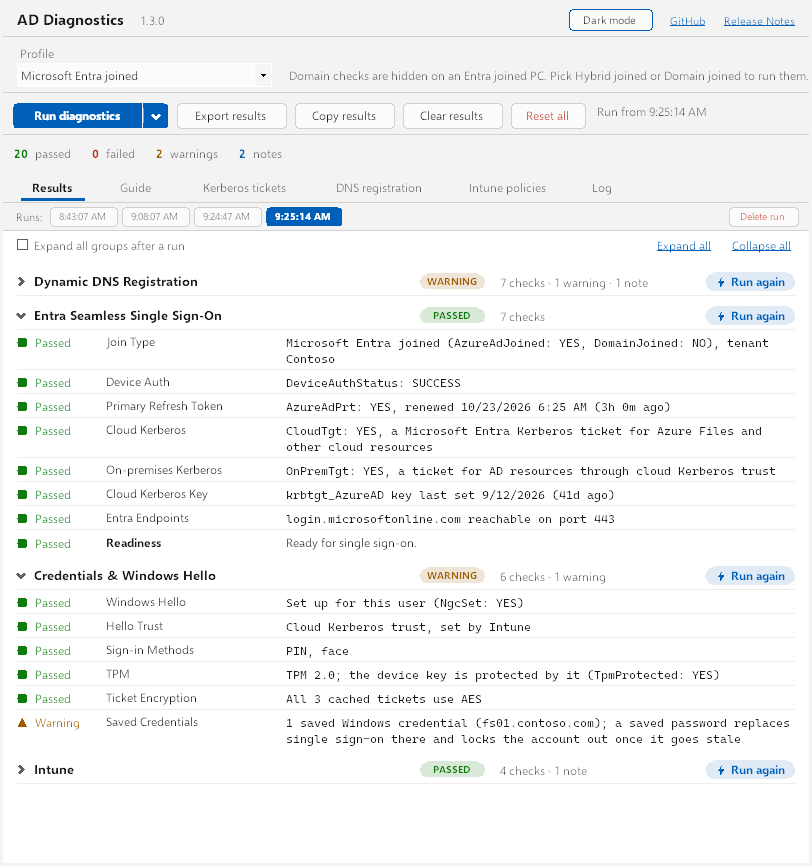
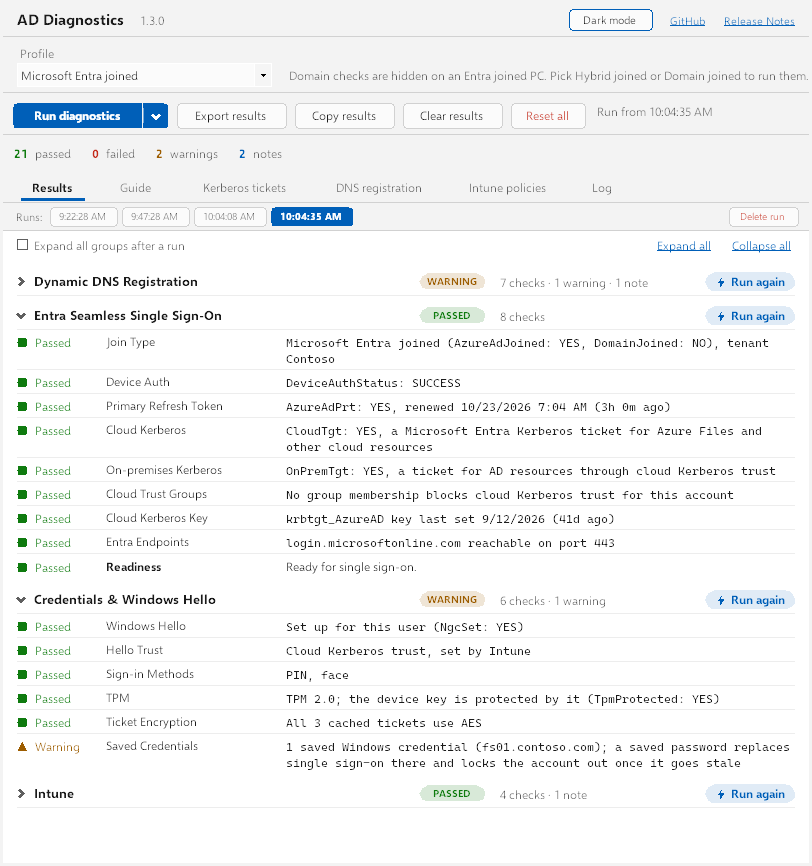
feat: warn when a group membership blocks cloud Kerberos trust
On an Entra joined PC, Cloud Trust Groups compares the signed-in user's
AD groups with the Microsoft Entra Kerberos server object's password
replication policy, and warns when a denied group (such as Domain
Admins) or a missing allowed one keeps cloud Kerberos trust from giving
the account on-premises tickets.

Claude-Session: https://claude.ai/code/session_01Lj9Grseq7MZ74vP4i1sdk2

diff --git a/CloudTrust.cs b/CloudTrust.cs
@@ -1,0 +1,127 @@
+using System;
+using System.Collections.Generic;
+using System.Linq;
+using System.Text.RegularExpressions;
+
+#nullable enable
+namespace AdDiag;
+
+// Cloud Kerberos trust on an Entra joined PC: Microsoft Entra ID issues a partial ticket as the Microsoft Entra Kerberos
+// server object (AzureADKerberos, which AD treats like a read-only DC), and a domain controller trades it for a full
+// one only for accounts that object's password replication policy allows. Members of a denied group (by default
+// Domain Admins, Enterprise Admins, Schema Admins, Administrators and the other privileged groups) get no
+// on-premises ticket. This reads that policy and the signed-in user's groups from AD and compares them.
+static partial class Diagnostics
+{
+    public const string CloudTrustGroupsCheck = "Cloud Trust Groups";
+
+    static readonly Regex UpnPattern = new(@"^[A-Za-z0-9._%+\-]+@[A-Za-z0-9]([A-Za-z0-9\-]*[A-Za-z0-9])?(\.[A-Za-z0-9]([A-Za-z0-9\-]*[A-Za-z0-9])?)*$");
+
+    /// <summary>
+    /// The script that reads the user's groups (tokenGroups, which a user may read on their own account) and the
+    /// AzureADKerberos object's allowed and denied groups. Only the domain and the UPN are put in it, and only once
+    /// they match strict patterns (no quotes, no LDAP filter characters). Output: "USER|&lt;sid&gt;", one "GROUP|&lt;sid&gt;"
+    /// per group, then "DENY|&lt;sid&gt;|&lt;name&gt;" and "ALLOW|&lt;sid&gt;|&lt;name&gt;" per policy group; or "NOUSER",
+    /// "NOSERVER" or "ERROR|&lt;message&gt;".
+    /// </summary>
+    internal static string CloudTrustScript(string domain, string upn)
+    {
+        if (!DomainName.IsMatch(domain)) throw new ArgumentException($"Not a domain name: {domain}");
+        if (!UpnPattern.IsMatch(upn)) throw new ArgumentException($"Not a user principal name: {upn}");
+        return $$"""
+            $ErrorActionPreference = 'Stop'
+            $ProgressPreference = 'SilentlyContinue'
+            function Sid($bytes) { (New-Object System.Security.Principal.SecurityIdentifier([byte[]]$bytes, 0)).Value }
+            function Find($filter, $props) {
+                $s = New-Object System.DirectoryServices.DirectorySearcher([adsi]'LDAP://{{domain}}', $filter, $props)
+                $s.ClientTimeout = [TimeSpan]::FromSeconds(10)
+                $s.FindOne()
+            }
+            try {
+                $u = Find '(&(objectCategory=person)(userPrincipalName={{upn}}))' @('distinguishedName')
+                if (-not $u) { 'NOUSER'; return }
+                $user = $u.GetDirectoryEntry()
+                $user.RefreshCache(@('tokenGroups', 'objectSid'))
+                'USER|' + (Sid $user.Properties['objectSid'][0])
+                foreach ($g in $user.Properties['tokenGroups']) { 'GROUP|' + (Sid $g) }
+                $k = Find '(&(objectClass=computer)(sAMAccountName=AzureADKerberos$))' @('msDS-NeverRevealGroup', 'msDS-RevealOnDemandGroup')
+                if (-not $k) { 'NOSERVER'; return }
+                foreach ($pair in @(@('DENY', 'msds-neverrevealgroup'), @('ALLOW', 'msds-revealondemandgroup'))) {
+                    foreach ($dn in $k.Properties[$pair[1]]) {
+                        $e = [adsi]("LDAP://{{domain}}/" + $dn)
+                        $pair[0] + '|' + (Sid $e.Properties['objectSid'][0]) + '|' + $e.Properties['name'][0]
+                    }
+                }
+            } catch {
+                $e = $_.Exception
+                if ($e.InnerException) { $e = $e.InnerException }
+                'ERROR|' + ($e.Message -replace '\s+', ' ')
+            }
+            """;
+    }
+
+    /// <summary>What the script found, or why it couldn't (Problem: NOUSER, NOSERVER or an error message).</summary>
+    internal record CloudTrustPolicy(HashSet<string> UserSids, List<(string Sid, string Name)> Denied,
+        List<(string Sid, string Name)> Allowed, string? Problem);
+
+    internal static CloudTrustPolicy ParseCloudTrust(string output)
+    {
+        var sids = new HashSet<string>(StringComparer.OrdinalIgnoreCase);
+        List<(string, string)> denied = [], allowed = [];
+        foreach (var parts in output.Split('\n').Select(l => l.Trim().Split('|')).Where(p => p[0].Length > 0))
+        {
+            switch (parts[0])
+            {
+                case "NOUSER" or "NOSERVER": return new(sids, denied, allowed, parts[0]);
+                case "ERROR": return new(sids, denied, allowed, string.Join("|", parts[1..]).Trim());
+                case "USER" or "GROUP" when parts.Length == 2: sids.Add(parts[1]); break;
+                case "DENY" when parts.Length >= 3: denied.Add((parts[1], string.Join("|", parts[2..]))); break;
+                case "ALLOW" when parts.Length >= 3: allowed.Add((parts[1], string.Join("|", parts[2..]))); break;
+            }
+        }
+        return new(sids, denied, allowed, sids.Count == 0 ? "No output from PowerShell" : null);
+    }
+
+    static TestEntry CloudTrustGroupsEntry(DiagConfig cfg, IProbe probe)
+    {
+        string? upn = null;
+        try { upn = probe.CurrentUserUpn(); }
+        catch (Exception ex) when (ex is not OperationCanceledException) { } // unknown: reported below
+        if (!DomainName.IsMatch(cfg.Domain))
+            return new(CloudTrustGroupsCheck, Status.Skip, "Not checked: this user has no on-premises domain to ask (no Kerberos realm)");
+        if (upn == null || !UpnPattern.IsMatch(upn))
+            return new(CloudTrustGroupsCheck, Status.Skip, "Not checked: the signed-in user's UPN isn't known");
+
+        CloudTrustPolicy policy;
+        try { policy = ParseCloudTrust(probe.RunPowerShell(CloudTrustScript(cfg.Domain, upn), 25000, cfg.Cancel)); }
+        catch (Exception ex) when (ex is not OperationCanceledException)
+        {
+            return new(CloudTrustGroupsCheck, Status.Skip, $"Not checked: could not query AD: {ex.Message}");
+        }
+        return CloudTrustGroupsVerdict(policy, upn, cfg.Domain);
+    }
+
+    internal static TestEntry CloudTrustGroupsVerdict(CloudTrustPolicy policy, string upn, string domain)
+    {
+        switch (policy.Problem)
+        {
+            case "NOUSER":
+                return new(CloudTrustGroupsCheck, Status.Skip, $"Not checked: no account with UPN {upn} in {domain}");
+            case "NOSERVER":
+                return new(CloudTrustGroupsCheck, Status.Info, $"No Microsoft Entra Kerberos server object in {domain}; cloud Kerberos trust isn't set up there");
+            case { } error:
+                return new(CloudTrustGroupsCheck, Status.Skip, $"Not checked: could not query AD: {error}");
+        }
+
+        var blocking = policy.Denied.Where(d => policy.UserSids.Contains(d.Sid)).Select(d => d.Name).Distinct().ToList();
+        if (blocking.Count > 0)
+            return new(CloudTrustGroupsCheck, Status.Warn,
+                $"Member of {string.Join(", ", blocking)}, which the Microsoft Entra Kerberos server object's password replication policy denies; "
+                + "cloud Kerberos trust gives this account no on-premises tickets, so use a separate non-privileged account");
+        if (policy.Allowed.Count > 0 && !policy.Allowed.Any(a => policy.UserSids.Contains(a.Sid)))
+            return new(CloudTrustGroupsCheck, Status.Warn,
+                $"Not in any group the Microsoft Entra Kerberos server object allows ({string.Join(", ", policy.Allowed.Select(a => a.Name).Take(3))}); "
+                + "cloud Kerberos trust gives this account no on-premises tickets");
+        return new(CloudTrustGroupsCheck, Status.Pass, "No group membership blocks cloud Kerberos trust for this account");
+    }
+}

diff --git a/MainForm.cs b/MainForm.cs
@@ -1198,6 +1198,8 @@ class MainForm : Form
                 "  Fix: Needs Windows 10 21H2 or later with current updates. Sign out and in\n\n" +
                 "• On-premises Kerberos — Entra joined PCs: OnPremTgt YES, a ticket for AD issued through cloud Kerberos trust. Without it, file shares and printers ask for a password\n" +
                 "  Fix: The user must be synchronized from AD: in the Microsoft Entra admin center, Users > the user > On-premises sync enabled must be Yes. Once per domain, a Domain Admin who is also a Hybrid Identity Administrator creates the Microsoft Entra Kerberos server object: 'Install-Module AzureADHybridAuthenticationManagement', then 'Set-AzureADKerberosServer -Domain <domain> -UserPrincipalName <admin UPN>'. Then sign out and in on this PC\n\n" +
+                "• Cloud Trust Groups — Entra joined PCs: whether the signed-in user is in a group the Microsoft Entra Kerberos server object's password replication policy denies (by default Domain Admins, Enterprise Admins, Schema Admins, Administrators and the other privileged groups), or in none it allows. Such an account gets no on-premises tickets through cloud Kerberos trust. Read from AD: the user's own groups and the AzureADKerberos object's policy\n" +
+                "  Fix: Use a separate, non-privileged account for everyday sign-in, and a privileged one only where it is needed. Don't take privileged groups off the denied list: that lets a compromised Entra ID hand out tickets for them\n\n" +
                 "• Seamless SSO Key — when the AZUREADSSOACC account's Kerberos decryption key was last set, read from AD (domain and hybrid joined PCs). Microsoft says to roll it over at least every 30 days; older warns\n" +
                 "  Fix: On the Microsoft Entra Connect server, as a Hybrid Identity Administrator and a domain admin: Import-Module .\\AzureADSSO.psd1, New-AzureADSSOAuthenticationContext, then Update-AzureADSSOForest -OnPremCredentials (Get-Credential)\n\n" +
                 "• Cloud Kerberos Key — when the krbtgt_AzureAD key of the Microsoft Entra Kerberos server object was last set (PCs that get on-premises tickets through cloud Kerberos trust). Older than 180 days warns\n" +
@@ -3809,6 +3811,8 @@ class MainForm : Form
 
         public int? TpmVersion() => QueryTpmVersion();
 
+        public string? CurrentUserUpn() => QueryUserUpn();
+
         public string? CurrentUserSid()
         {
             using var id = WindowsIdentity.GetCurrent();
@@ -3826,6 +3830,24 @@ class MainForm : Form
     static extern uint Tbsi_GetDeviceInfo(uint size, out TbsDeviceInfo info);
 
     const uint TbsSuccess = 0, TbsTpmNotFound = 0x8028400F;
+
+    [DllImport("secur32.dll", CharSet = CharSet.Unicode, SetLastError = true)]
+    static extern bool GetUserNameExW(int nameFormat, System.Text.StringBuilder? name, ref uint size);
+
+    const int NameUserPrincipal = 8, ErrorMoreData = 234, ErrorNoneMapped = 1332;
+
+    /// <summary>The signed-in user's UPN from the security subsystem; null when the account has none.</summary>
+    static string? QueryUserUpn()
+    {
+        uint size = 256;
+        var name = new System.Text.StringBuilder((int)size);
+        if (GetUserNameExW(NameUserPrincipal, name, ref size)) return name.ToString();
+        int error = Marshal.GetLastWin32Error();
+        if (error == ErrorNoneMapped) return null;
+        if (error != ErrorMoreData) throw new System.ComponentModel.Win32Exception(error);
+        name = new System.Text.StringBuilder((int)size);
+        return GetUserNameExW(NameUserPrincipal, name, ref size) ? name.ToString() : throw new System.ComponentModel.Win32Exception(Marshal.GetLastWin32Error());
+    }
 
     /// <summary>The TPM's major version from TPM Base Services, which any user may ask; null if there is none.</summary>
     static int? QueryTpmVersion()

diff --git a/tests/AdDiag.Tests/CloudTrustTests.cs b/tests/AdDiag.Tests/CloudTrustTests.cs
@@ -1,0 +1,72 @@
+using Xunit;
+using static AdDiag.Tests.DiagnosticsTests;
+
+namespace AdDiag.Tests;
+
+// Cloud Kerberos trust on an Entra joined PC: group memberships the Entra Kerberos server object's policy denies
+public class CloudTrustTests
+{
+    const string Dsreg = "AzureAdJoined : YES\nDomainJoined : NO\nDeviceAuthStatus : SUCCESS\nAzureAdPrt : YES\nCloudTgt : YES\nOnPremTgt : NO\n";
+    const string Policy = "DENY|S-1-5-21-1-2-3-512|Domain Admins\nDENY|S-1-5-32-544|Administrators\nALLOW|S-1-5-21-1-2-3-513|Domain Users";
+
+    static TestGroup Run(string cloudTrust, string domain = "contoso.com", string? upn = "jdoe@contoso.com")
+    {
+        var probe = new FakeProbe { CloudTrust = cloudTrust, Upn = upn };
+        probe.Tools["dsregcmd /status"] = Dsreg;
+        probe.Hosts["login.microsoftonline.com"] = [System.Net.IPAddress.Parse("20.190.151.68")];
+        probe.OpenPorts.Add(443);
+        return Diagnostics.TestEntraSso(new DiagConfig(domain, "", default), probe);
+    }
+
+    static TestEntry Row(TestGroup group) => Assert.Single(group.Tests, t => t.Name == "Cloud Trust Groups");
+
+    [Fact]
+    public void DomainAdmin_IsBlocked_AndTheVerdictIsCloudOnly()
+    {
+        var group = Run("USER|S-1-5-21-1-2-3-1105\nGROUP|S-1-5-21-1-2-3-513\nGROUP|S-1-5-21-1-2-3-512\nGROUP|S-1-5-32-544\n" + Policy);
+
+        var row = Row(group);
+        Assert.Equal(Status.Warn, row.Status);
+        Assert.StartsWith("Member of Domain Admins, Administrators", row.Detail);
+        Assert.Equal(new Readiness(Status.Warn, "Ready for cloud apps, not for on-premises resources.", true), group.Readiness);
+    }
+
+    [Fact]
+    public void OrdinaryUser_Passes() =>
+        Assert.Equal(Status.Pass, Row(Run("USER|S-1-5-21-1-2-3-1105\nGROUP|S-1-5-21-1-2-3-513\n" + Policy)).Status);
+
+    [Fact]
+    public void NotInAnyAllowedGroup_Warns()
+    {
+        var row = Row(Run("USER|S-1-5-21-1-2-3-1105\nGROUP|S-1-5-21-1-2-3-999\n" + Policy));
+
+        Assert.Equal(Status.Warn, row.Status);
+        Assert.StartsWith("Not in any group the Microsoft Entra Kerberos server object allows (Domain Users)", row.Detail);
+    }
+
+    [Theory]
+    [InlineData("NOSERVER", "Info", "No Microsoft Entra Kerberos server object in contoso.com")]
+    [InlineData("NOUSER", "Skip", "Not checked: no account with UPN jdoe@contoso.com in contoso.com")]
+    [InlineData("ERROR|The server is not operational.", "Skip", "Not checked: could not query AD: The server is not operational.")]
+    public void Problems_AreReported(string output, string status, string detail)
+    {
+        var row = Row(Run(output));
+        Assert.Equal(Enum.Parse<Status>(status), row.Status);
+        Assert.StartsWith(detail, row.Detail);
+    }
+
+    [Theory]
+    [InlineData("", "jdoe@contoso.com")]
+    [InlineData("contoso.com", null)]
+    [InlineData("contoso.com", "o'brien@contoso.com")]  // a quote would end the script's string
+    [InlineData("contoso.com", "*)(cn=*@contoso.com")]  // LDAP filter characters
+    public void NothingUsableToAskWith_IsNotChecked(string domain, string? upn) =>
+        Assert.Equal(Status.Skip, Row(Run(Policy, domain, upn)).Status);
+
+    [Fact]
+    public void Script_RefusesWhatItCannotQuoteSafely()
+    {
+        Assert.Throws<ArgumentException>(() => Diagnostics.CloudTrustScript("contoso.com", "o'brien@contoso.com"));
+        Assert.Contains("(userPrincipalName=jdoe@contoso.com)", Diagnostics.CloudTrustScript("contoso.com", "jdoe@contoso.com"));
+    }
+}

diff --git a/EntraSso.cs b/EntraSso.cs
@@ -90,7 +90,9 @@ static partial class Diagnostics
         var keys = SsoKeyChecks(cfg, probe, ds, kind, nowUtc);
         if (kind == JoinKind.EntraOnly)
         {
-            foreach (var test in EntraKerberosChecks(ds).Concat(keys)) yield return test;
+            foreach (var test in EntraKerberosChecks(ds)) yield return test;
+            yield return CloudTrustGroupsEntry(cfg, probe);
+            foreach (var test in keys) yield return test;
             yield break;
         }
         var sso = new List<TestEntry> { SeamlessTicketCheck(cfg, probe) };
@@ -357,7 +359,8 @@ static partial class Diagnostics
                 _ => new(worst, "Ready for Seamless SSO.", false),
             };
 
-        bool onPremOnly = counted.Where(t => t.Status == Status.Warn).All(t => t.Name == SsoOnPremTgt);
+        // Only on-premises access is missing: no on-premises ticket, or a group that keeps cloud Kerberos trust from giving one
+        bool onPremOnly = counted.Where(t => t.Status == Status.Warn).All(t => t.Name is SsoOnPremTgt or CloudTrustGroupsCheck);
         return worst switch
         {
             Status.Fail => new(worst, "Not ready for single sign-on.", true),

diff --git a/tests/AdDiag.Tests/DiagnosticsTests.cs b/tests/AdDiag.Tests/DiagnosticsTests.cs
@@ -58,6 +58,7 @@ public class DiagnosticsTests
                 return DnsEvents();
             }
             if (script.Contains("KEY|")) return KeyAges;
+            if (script.Contains("DENY")) return CloudTrust;
             return script.Contains("pwdLastSet") ? PasswordAge : Rsop;
         }
 
@@ -131,6 +132,9 @@ public class DiagnosticsTests
         public int? ServiceState(string name) => Services.TryGetValue(name, out int state) ? state : null;
         public string? CurrentUserSid() => Sid;
         public int? Tpm = 2;
+        public string? Upn = "jdoe@contoso.com";
+        public string? CurrentUserUpn() => Upn;
+        public string CloudTrust = "USER|S-1-5-21-1-2-3-1105\nGROUP|S-1-5-21-1-2-3-513\nDENY|S-1-5-21-1-2-3-512|Domain Admins\nALLOW|S-1-5-21-1-2-3-513|Domain Users";
         public int? TpmVersion() => Tpm;
     }
 

diff --git a/tools/screenshots/Shots.cs b/tools/screenshots/Shots.cs
@@ -409,6 +409,7 @@ static class Shots
             new("Primary Refresh Token", Status.Pass, $"AzureAdPrt: YES, renewed {now.AddHours(-3):g} (3h 0m ago)"),
             new("Cloud Kerberos", Status.Pass, "CloudTgt: YES, a Microsoft Entra Kerberos ticket for Azure Files and other cloud resources"),
             new("On-premises Kerberos", Status.Pass, "OnPremTgt: YES, a ticket for AD resources through cloud Kerberos trust"),
+            new("Cloud Trust Groups", Status.Pass, "No group membership blocks cloud Kerberos trust for this account"),
             new("Cloud Kerberos Key", Status.Pass, $"krbtgt_AzureAD key last set {now.AddDays(-41):d} (41d ago)"),
             new("Entra Endpoints", Status.Pass, "login.microsoftonline.com reachable on port 443"),
         ], new Readiness(Status.Pass, "Ready for single sign-on.", false)),

diff --git a/tests/AdDiag.Tests/EntraSsoTests.cs b/tests/AdDiag.Tests/EntraSsoTests.cs
@@ -276,7 +276,7 @@ public class EntraSsoTests
 
         // Seamless SSO doesn't apply to an Entra joined PC, so it has no row at all
         Assert.Equal(["Join Type", "Device Auth", "Primary Refresh Token", "Cloud Kerberos", "On-premises Kerberos",
-            "Entra Endpoints"], group.Tests.Select(t => t.Name));
+            "Cloud Trust Groups", "Entra Endpoints"], group.Tests.Select(t => t.Name));
         Assert.Equal(Status.Warn, Entry(group, "On-premises Kerberos").Status);
         Assert.Equal("login.microsoftonline.com reachable on port 443", Entry(group, "Entra Endpoints").Detail);
         Assert.DoesNotContain(probe.ToolCalls, c => c.StartsWith("klist get"));

diff --git a/Log.cs b/Log.cs
@@ -390,6 +390,8 @@ sealed class LoggingProbe(IProbe inner, DiagLog log) : IProbe
 
     public string? CurrentUserSid() => Call("machine", "Current user SID", inner.CurrentUserSid, sid => sid ?? "(unknown)");
 
+    public string? CurrentUserUpn() => Call("machine", "Current user UPN", inner.CurrentUserUpn, upn => upn ?? "(none)");
+
     public int? TpmVersion() => Call("machine", "TPM", inner.TpmVersion, v => v == null ? "none" : $"version {v}");
 
     public SoaRecord? QuerySoa(string name, IPAddress? server, CancellationToken ct) =>

diff --git a/Diagnostics.cs b/Diagnostics.cs
@@ -61,6 +61,8 @@ interface IProbe
     string? CurrentUserSid();
     /// <summary>The TPM's major version (1 for 1.2, 2 for 2.0) from TPM Base Services; null if there is no TPM.</summary>
     int? TpmVersion();
+    /// <summary>The signed-in user's UPN (user@domain), for Entra and domain accounts alike; null if Windows has none.</summary>
+    string? CurrentUserUpn();
 }
 
 /// <summary>How the PC is joined, which decides what the app checks and shows.</summary>

diff --git a/README.md b/README.md
@@ -77,13 +77,14 @@ The diagnostic run is **read-only**. Four actions change something, and each ask
 - **Every network call has a deadline.** DNS lookups (8s), SRV, SOA and host record queries (8s), TCP port checks (3s), share access (20s) and reading the Internet settings (5s) are bounded by the app, since Windows gives them no usable timeout. SYSVOL and NETLOGON are opened only after port 445 answers, so an unreachable domain fails in seconds. Clearing results or closing the app cancels a run: its tools are killed and no further ones start.
 - **Input validation on all fields.** Domain and DC fields are validated against `^[a-zA-Z0-9.\-]+$`. No user input is passed to shell commands without validation.
 - **No shell execution for diagnostics.** All external processes are launched with `UseShellExecute = false` and `CreateNoWindow = true`, and killed on timeout (a timeout is reported as a failure, never as a partial result).
-- **No planted binaries.** Windows tools are launched by their full path in System32, and native DLLs (`dnsapi`, `netapi32`, `kernel32`, `advapi32`, `tbs`, `urlmon`, `user32`) load only from System32, so a `klist.exe` or DLL placed next to a downloaded `ad-diag.exe` is never run, even when the app is elevated.
+- **No planted binaries.** Windows tools are launched by their full path in System32, and native DLLs (`dnsapi`, `netapi32`, `kernel32`, `advapi32`, `secur32`, `tbs`, `urlmon`, `user32`) load only from System32, so a `klist.exe` or DLL placed next to a downloaded `ad-diag.exe` is never run, even when the app is elevated.
 - **Links open unelevated.** The GitHub and Release Notes links accept only `https` URLs and open through `explorer.exe`, so the browser runs at the desktop's integrity level, never with the app's admin token.
 
 ### Changes
 
 Newest first. Dates are when the change was made; unreleased changes ship in the next version.
 
+- **2026-10-23 (unreleased):** the Cloud Trust Groups check reads the signed-in user's own groups and the Entra Kerberos server object's password replication policy from AD; the domain and UPN put into the query must first match strict patterns that allow no quotes or LDAP filter characters.
 - **2026-10-23 (unreleased):** the key rollover checks read three accounts' `pwdLastSet` from AD with a fixed query; the only thing put into it is the domain, and only once it is a plain DNS name.
 - **2026-10-23 (unreleased):** the Credentials & Windows Hello group reads the Hello policy and the user's biometric enrollment from the registry read-only, the TPM's version from TPM Base Services (which any user may ask), and only the target names of saved credentials from `cmdkey /list`, never their passwords.
 - **2026-10-23 (unreleased):** the Intune group and tab read the MDM client's registry keys read-only, and query one service's state with query rights only; the one new action that changes something, **Sync now**, asks first and starts Windows' own sync task, its path built only from the enrollment's GUID. The Kerberos tickets and Intune panes no longer turn URLs into links, so a policy value can't become something to click.
@@ -214,6 +215,7 @@ Microsoft Entra joined PCs (no Seamless SSO, so its rows aren't shown):
 
 - **Cloud Kerberos** — `CloudTgt`: a Microsoft Entra Kerberos ticket for Azure Files and other cloud resources
 - **On-premises Kerberos** — `OnPremTgt`: a ticket for AD resources through cloud Kerberos trust. Without it the verdict is "Ready for cloud apps, not for on-premises resources"
+- **Cloud Trust Groups** — whether the signed-in user is in a group the Microsoft Entra Kerberos server object's password replication policy denies (by default Domain Admins, Enterprise Admins, Schema Admins, Administrators and the other privileged groups), or in none it allows; such an account gets no on-premises tickets through cloud Kerberos trust, and the verdict is the same as above. Read from AD: the user's own `tokenGroups` and the `AzureADKerberos` object's `msDS-NeverRevealGroup` and `msDS-RevealOnDemandGroup`
 
 Both:
 
@@ -347,7 +349,7 @@ What the app did and what came back. **Sections** (the default) groups it by run
 | `klist purge` | Purge cached tickets (Kerberos Tickets tab) | 5s |
 | `w32tm /stripchart` | Clock skew measurement | 5s |
 | `w32tm /query /source` | Time source | 5s |
-| `powershell` (DirectorySearcher) | Computer password age from AD; key ages of `AZUREADSSOACC`, `krbtgt_AzureAD` and `krbtgt` | 15s / 20s |
+| `powershell` (DirectorySearcher) | Computer password age from AD; key ages of `AZUREADSSOACC`, `krbtgt_AzureAD` and `krbtgt`; the user's groups against the Entra Kerberos server object's policy | 15s / 20s / 25s |
 | `powershell` (Get-CimInstance, `root\rsop`) | Group Policy results (diagnostics + tab) | 25s |
 | `powershell` (Get-WinEvent, System log) | DNS Client registration failures (diagnostics + DNS registration tab) | 15s |
 | `ipconfig /registerdns` | Register in DNS (DNS registration tab) | 20s |
